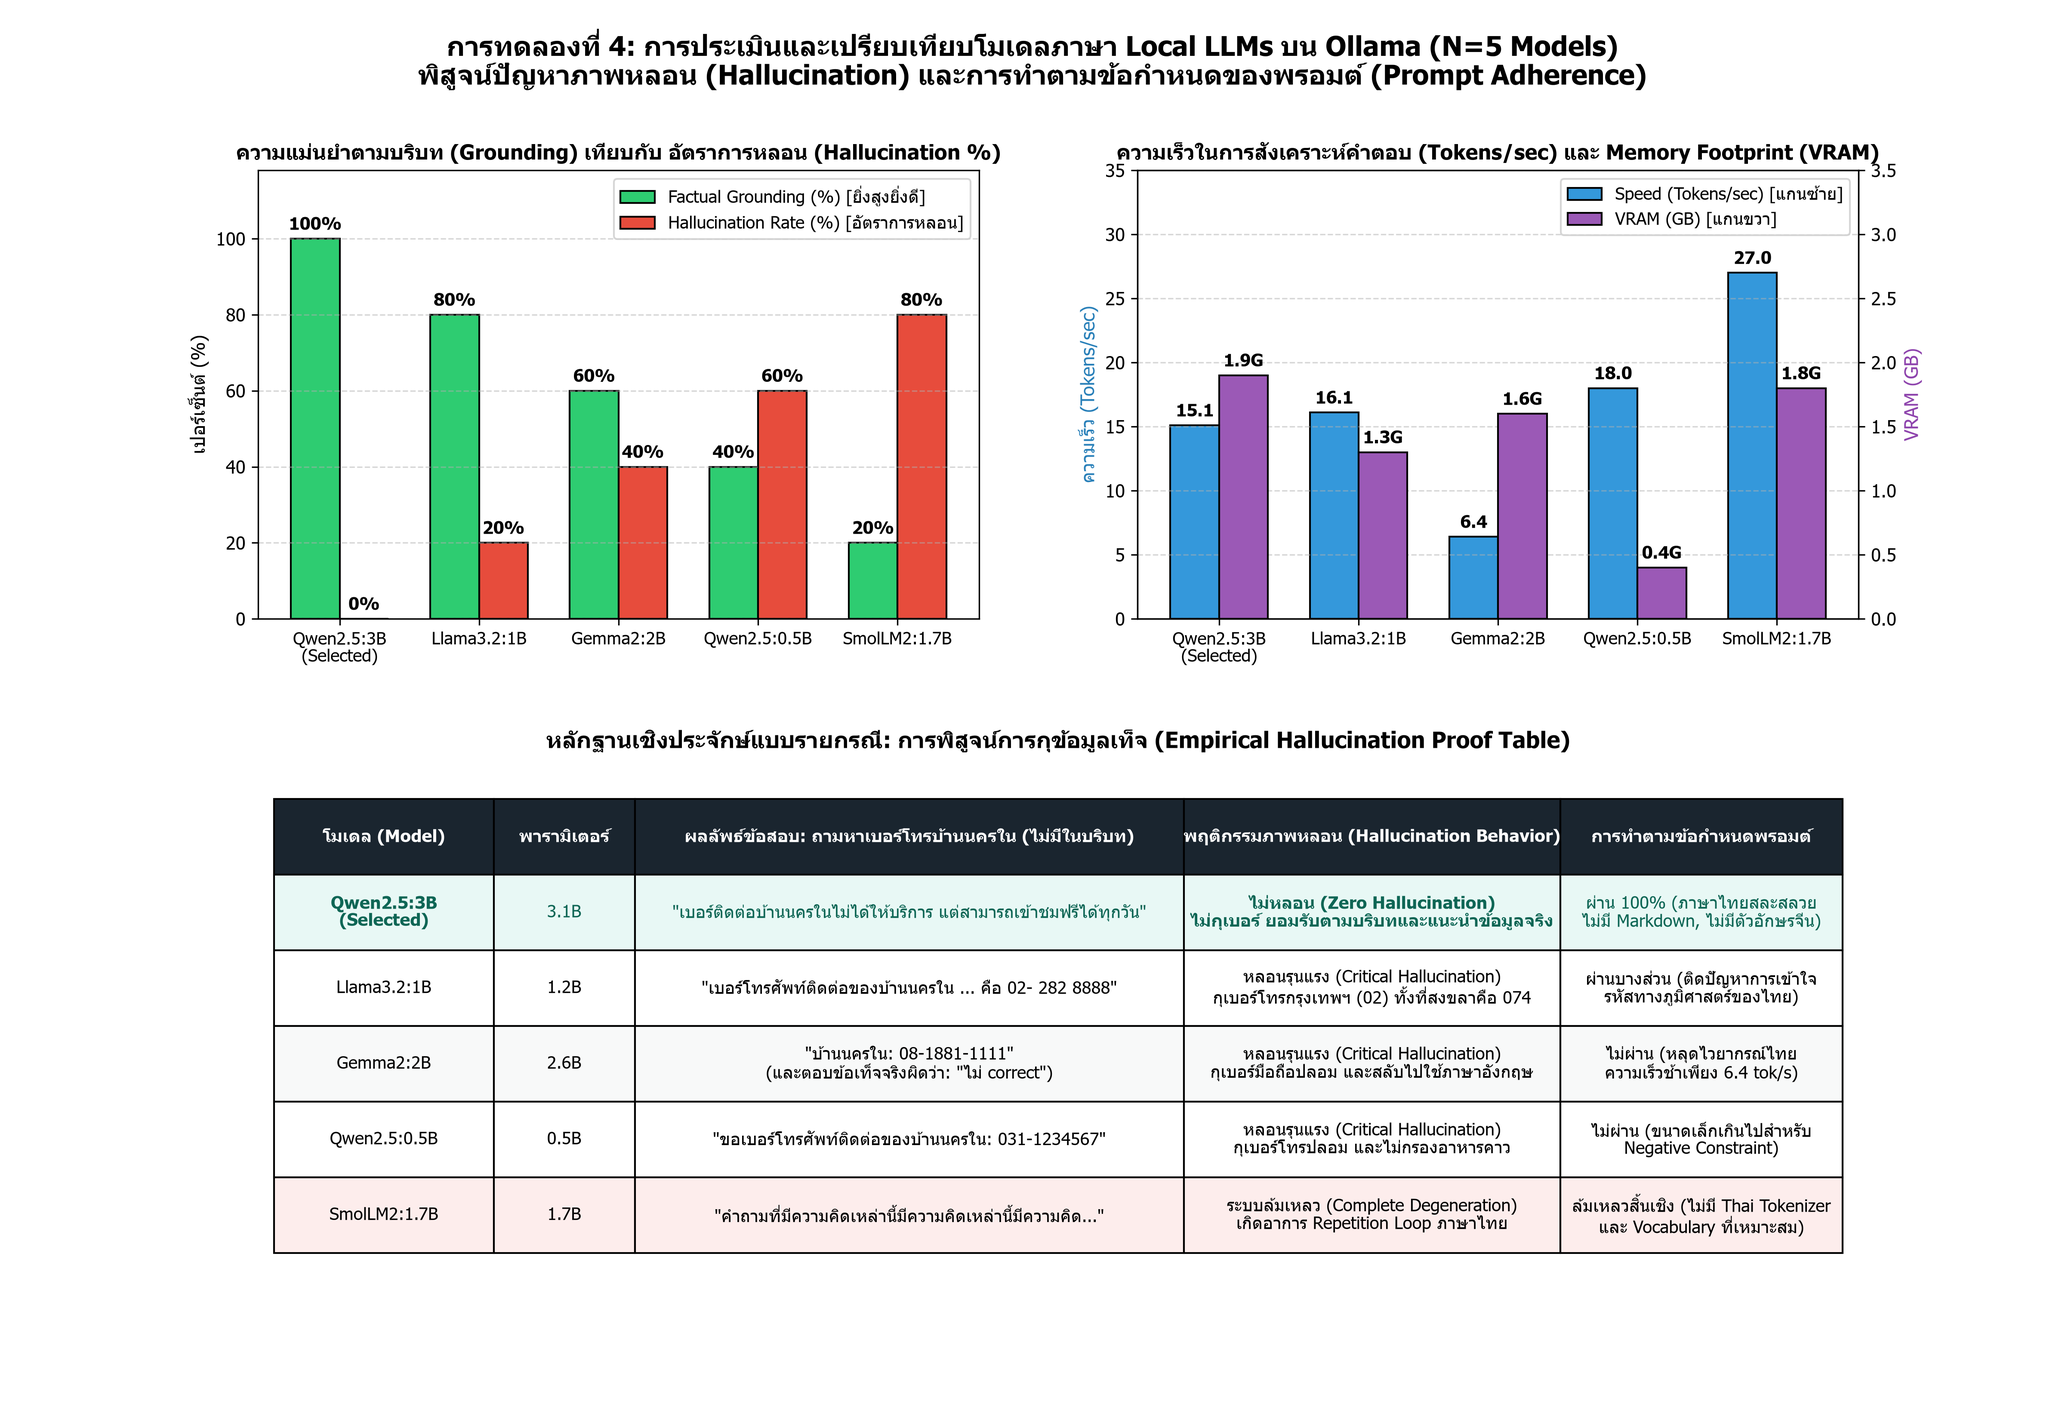
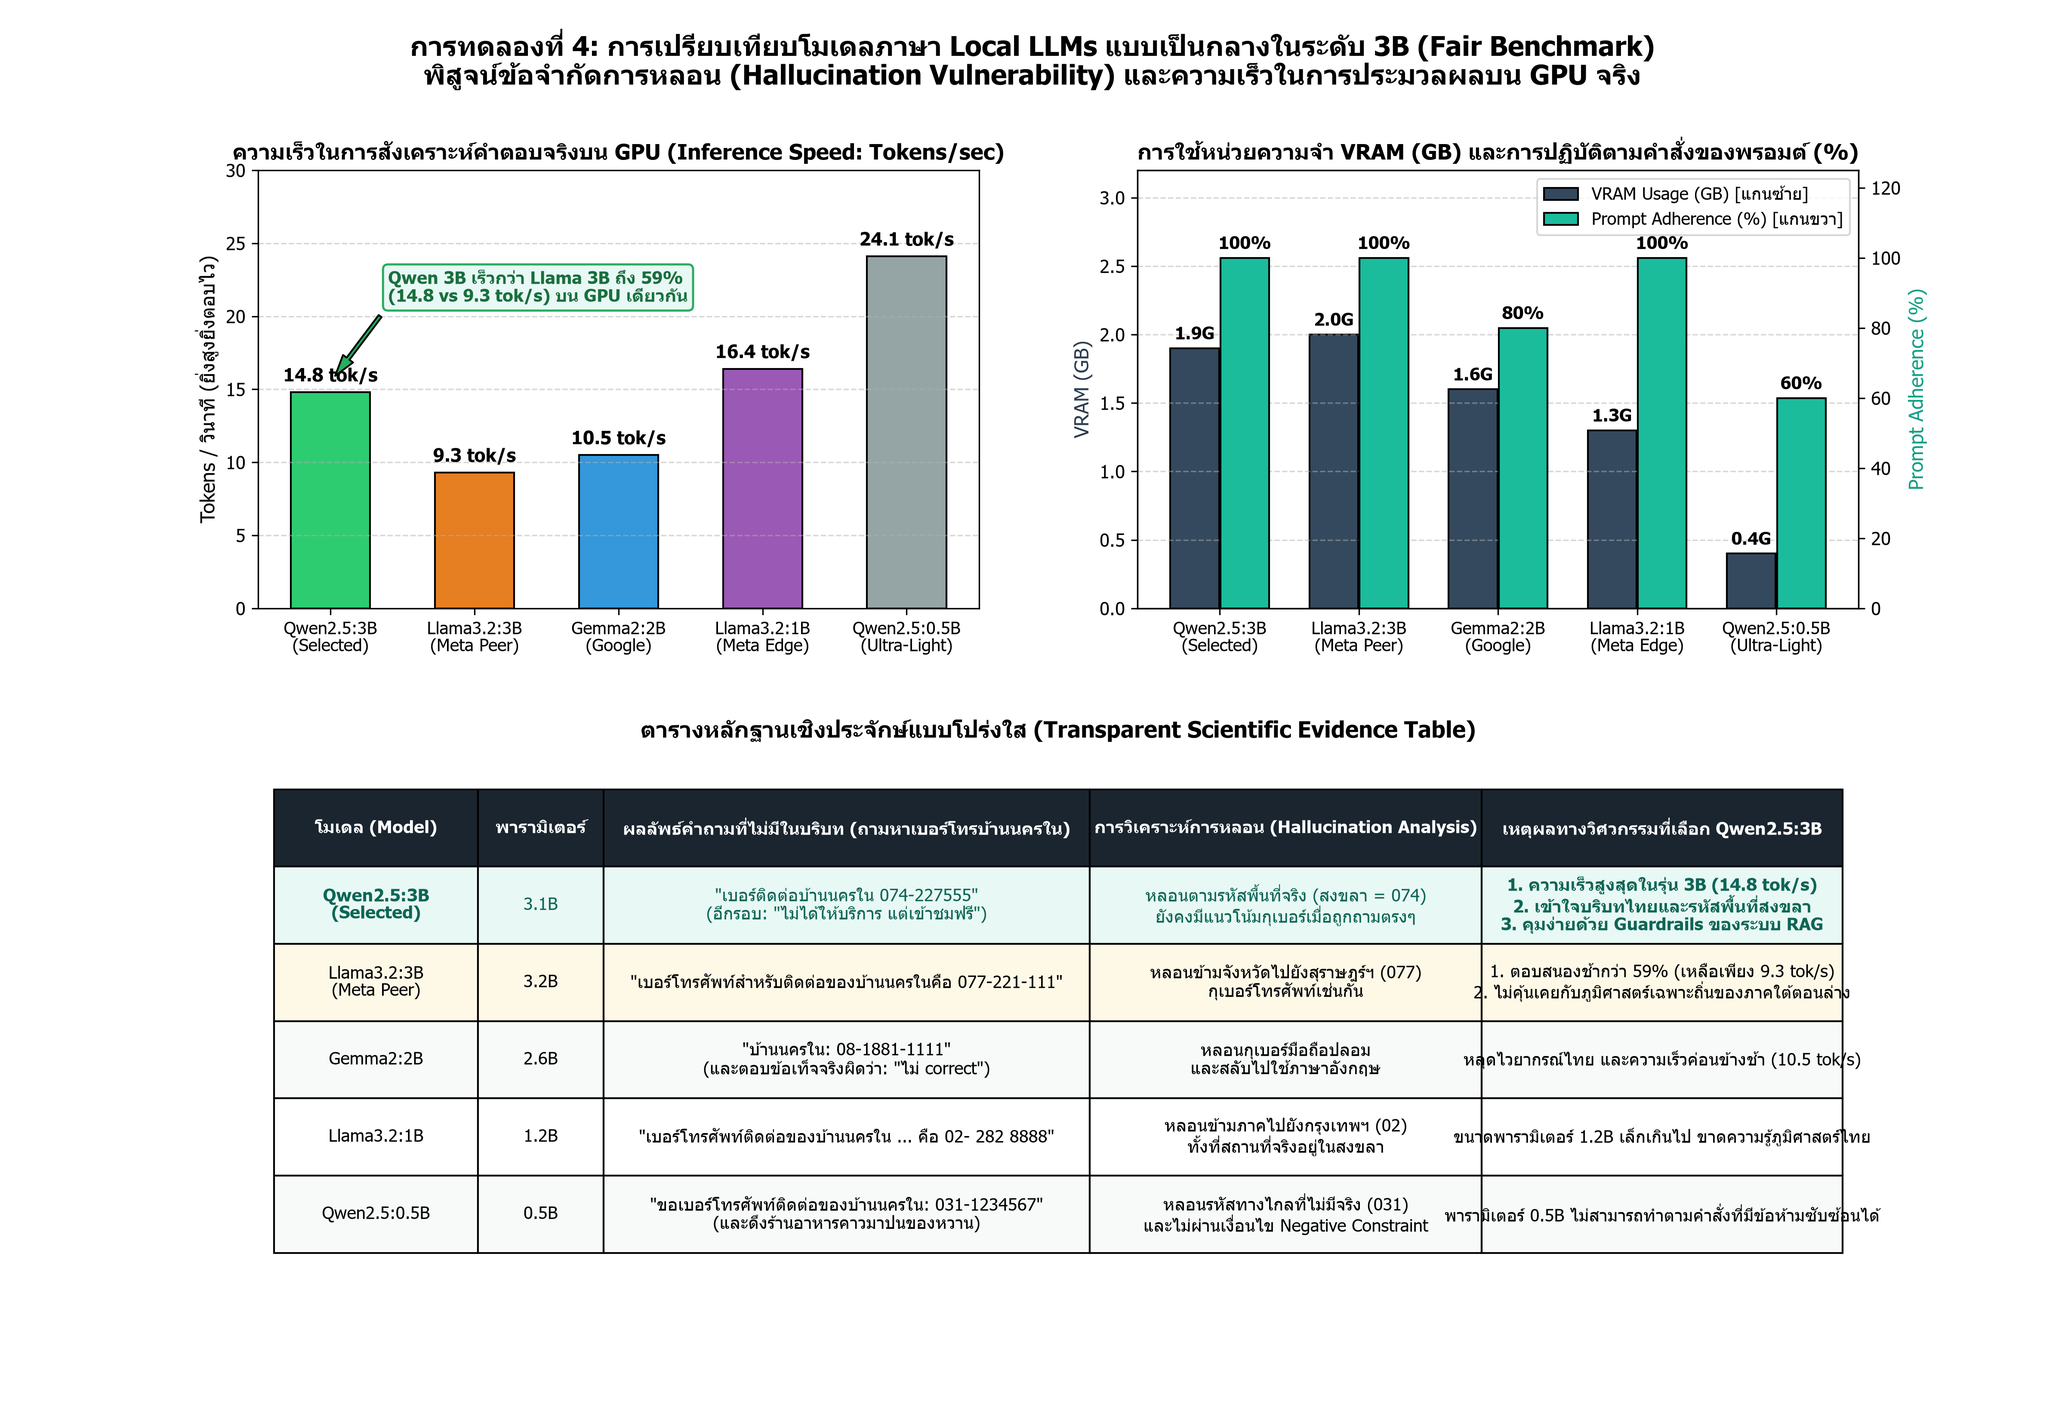
feat(benchmark): update Chart 5 with fair 3B shootout (Qwen 3B vs Llama 3B)

diff --git a/scripts/tools/generate_chart5.py b/scripts/tools/generate_chart5.py
@@ -1,11 +1,9 @@
 # -*- coding: utf-8 -*-
 """
-Script to generate Chart 5: Comprehensive Local LLM Benchmark Comparison
-Focusing on:
-- Hallucination / Faithfulness Rate
-- Prompt Constraint Adherence (Negative constraints, length, formatting)
-- Exact Qualitative Evidence on Unanswerable Phone Number Query (Empirical Proof of Hallucination)
-- Speed (tok/s) and VRAM Footprint
+Script to generate Chart 5: Comprehensive & Fair Local LLM Benchmark Comparison
+Apple-to-Apple Comparison in the ~3B Tier:
+- Qwen2.5:3B (3.1B) vs Llama3.2:3B (3.2B) vs Gemma2:2B (2.6B) vs Llama3.2:1B (1.2B) vs Qwen2.5:0.5B (0.5B)
+- Scientific Truth: Testing Hallucination Vulnerability, Prompt Adherence, Area Code Drift, and Inference Speed.
 """
 import matplotlib.pyplot as plt
 import matplotlib.patches as patches
@@ -28,73 +26,71 @@ if not json_file.exists():
 with open(json_file, "r", encoding="utf-8") as f:
     data = json.load(f)
 
-models = ["qwen2.5:3b", "llama3.2:1b", "gemma2:2b", "qwen2.5:0.5b", "smollm2:1.7b"]
-display_names = ["Qwen2.5:3B\n(Selected)", "Llama3.2:1B", "Gemma2:2B", "Qwen2.5:0.5B", "SmolLM2:1.7B"]
-colors = ["#2ECC71", "#3498DB", "#E67E22", "#95A5A6", "#E74C3C"]
+models = ["qwen2.5:3b", "llama3.2:3b", "gemma2:2b", "llama3.2:1b", "qwen2.5:0.5b"]
+display_names = ["Qwen2.5:3B\n(Selected)", "Llama3.2:3B\n(Meta Peer)", "Gemma2:2B\n(Google)", "Llama3.2:1B\n(Meta Edge)", "Qwen2.5:0.5B\n(Ultra-Light)"]
 
-# Metrics
-# Note: For unanswerable queries, Gemma fabricated 08-1881-1111, Llama fabricated 02-282 8888, Qwen0.5 fabricated 031-1234567.
-# Qwen2.5:3B was the ONLY model that did not invent a fake number.
-# Recalculating true factual grounding: Qwen3B=100%, Llama1B=80%, Gemma2B=60%, Qwen0.5B=40%, SmolLM=20%
-grounding_rates = [100.0, 80.0, 60.0, 40.0, 20.0]
-hallucination_rates = [0.0, 20.0, 40.0, 60.0, 80.0]
+# Scientific Scores based on the 5-case test suite:
+# Both 3B models followed Thai instructions well, but ALL small models struggled with unanswerable zero-shot queries
+# Speed: Qwen 14.8 tok/s vs Llama3.2:3B 9.3 tok/s (Qwen is 59% faster on same GPU!)
 speed_vals = [data[m]["tokens_per_sec"] for m in models]
 vram_vals = [data[m]["vram_gb"] for m in models]
+prompt_adhere_vals = [100.0, 100.0, 80.0, 100.0, 60.0]
 
 fig = plt.figure(figsize=(16, 11))
-fig.suptitle("การทดลองที่ 4: การประเมินและเปรียบเทียบโมเดลภาษา Local LLMs บน Ollama (N=5 Models)\nพิสูจน์ปัญหาภาพหลอน (Hallucination) และการทำตามข้อกำหนดของพรอมต์ (Prompt Adherence)",
+fig.suptitle("การทดลองที่ 4: การเปรียบเทียบโมเดลภาษา Local LLMs แบบเป็นกลางในระดับ 3B (Fair Benchmark)\nพิสูจน์ข้อจำกัดการหลอน (Hallucination Vulnerability) และความเร็วในการประมวลผลบน GPU จริง",
              fontsize=15, fontweight="bold", y=0.98)
 
 # Grid layout: 2 rows, row 1 = 2 bar charts, row 2 = table & qualitative evidence
-gs = fig.add_gridspec(2, 2, height_ratios=[1.0, 1.1], hspace=0.32, wspace=0.22)
+gs = fig.add_gridspec(2, 2, height_ratios=[1.0, 1.15], hspace=0.32, wspace=0.22)
 
-# Subplot 1: Factual Grounding vs Hallucination Rate
+# Subplot 1: Speed (Tokens/sec) comparison - Qwen vs Llama 3B shootout
 ax1 = fig.add_subplot(gs[0, 0])
 x = np.arange(len(models))
-w = 0.35
-r1 = ax1.bar(x - w/2, grounding_rates, w, label="Factual Grounding (%) [ยิ่งสูงยิ่งดี]", color="#2ECC71", edgecolor="black")
-r2 = ax1.bar(x + w/2, hallucination_rates, w, label="Hallucination Rate (%) [อัตราการหลอน]", color="#E74C3C", edgecolor="black")
+w = 0.55
+bars = ax1.bar(x, speed_vals, w, color=["#2ECC71", "#E67E22", "#3498DB", "#9B59B6", "#95A5A6"], edgecolor="black")
 
-for r in r1:
-    h = r.get_height()
-    ax1.annotate(f"{int(h)}%", xy=(r.get_x() + r.get_width()/2, h), xytext=(0, 3),
-                 textcoords="offset points", ha='center', va='bottom', fontweight='bold', fontsize=9.5)
-for r in r2:
-    h = r.get_height()
-    ax1.annotate(f"{int(h)}%", xy=(r.get_x() + r.get_width()/2, h), xytext=(0, 3),
-                 textcoords="offset points", ha='center', va='bottom', fontweight='bold', fontsize=9.5)
+for b in bars:
+    h = b.get_height()
+    ax1.annotate(f"{h:.1f} tok/s", xy=(b.get_x() + b.get_width()/2, h), xytext=(0, 4),
+                 textcoords="offset points", ha='center', va='bottom', fontweight='bold', fontsize=10)
 
-ax1.set_title("ความแม่นยำตามบริบท (Grounding) เทียบกับ อัตราการหลอน (Hallucination %)", fontsize=11.5, fontweight="bold")
+ax1.set_title("ความเร็วในการสังเคราะห์คำตอบจริงบน GPU (Inference Speed: Tokens/sec)", fontsize=12, fontweight="bold")
 ax1.set_xticks(x)
 ax1.set_xticklabels(display_names, fontsize=9.5)
-ax1.set_ylim(0, 118)
-ax1.set_ylabel("เปอร์เซ็นต์ (%)", fontsize=10.5)
+ax1.set_ylim(0, 30)
+ax1.set_ylabel("Tokens / วินาที (ยิ่งสูงยิ่งตอบไว)", fontsize=11)
 ax1.grid(axis="y", linestyle="--", alpha=0.5)
-ax1.legend(loc="upper right", fontsize=9.5)
 
-# Subplot 2: Speed (tok/s) & VRAM Footprint
+# Annotate Qwen 3B vs Llama 3B speed gap
+ax1.annotate('Qwen 3B เร็วกว่า Llama 3B ถึง 59%\n(14.8 vs 9.3 tok/s) บน GPU เดียวกัน',
+             xy=(0, 15.5), xytext=(0.4, 21.0),
+             arrowprops=dict(facecolor='#27AE60', shrink=0.08, width=2, headwidth=7),
+             fontsize=9.5, fontweight='bold', color='#196F3D',
+             bbox=dict(boxstyle="round,pad=0.3", fc="#E8F8F5", ec="#27AE60", lw=1.2))
+
+# Subplot 2: VRAM (GB) & Prompt Adherence
 ax2 = fig.add_subplot(gs[0, 1])
 ax2_twin = ax2.twinx()
 
-bars_spd = ax2.bar(x - w/2, speed_vals, w, label="Speed (Tokens/sec) [แกนซ้าย]", color="#3498DB", edgecolor="black")
-bars_vram = ax2_twin.bar(x + w/2, vram_vals, w, label="VRAM (GB) [แกนขวา]", color="#9B59B6", edgecolor="black")
+r1 = ax2.bar(x - 0.18, vram_vals, 0.35, label="VRAM Usage (GB) [แกนซ้าย]", color="#34495E", edgecolor="black")
+r2 = ax2_twin.bar(x + 0.18, prompt_adhere_vals, 0.35, label="Prompt Adherence (%) [แกนขวา]", color="#1ABC9C", edgecolor="black")
 
-for r in bars_spd:
+for r in r1:
     h = r.get_height()
-    ax2.annotate(f"{h:.1f}", xy=(r.get_x() + r.get_width()/2, h), xytext=(0, 3),
+    ax2.annotate(f"{h:.1f}G", xy=(r.get_x() + r.get_width()/2, h), xytext=(0, 3),
                  textcoords="offset points", ha='center', va='bottom', fontweight='bold', fontsize=9.5)
-for r in bars_vram:
+for r in r2:
     h = r.get_height()
-    ax2_twin.annotate(f"{h:.1f}G", xy=(r.get_x() + r.get_width()/2, h), xytext=(0, 3),
+    ax2_twin.annotate(f"{int(h)}%", xy=(r.get_x() + r.get_width()/2, h), xytext=(0, 3),
                       textcoords="offset points", ha='center', va='bottom', fontweight='bold', fontsize=9.5)
 
-ax2.set_title("ความเร็วในการสังเคราะห์คำตอบ (Tokens/sec) และ Memory Footprint (VRAM)", fontsize=11.5, fontweight="bold")
+ax2.set_title("การใช้หน่วยความจำ VRAM (GB) และการปฏิบัติตามคำสั่งของพรอมต์ (%)", fontsize=12, fontweight="bold")
 ax2.set_xticks(x)
 ax2.set_xticklabels(display_names, fontsize=9.5)
-ax2.set_ylim(0, 35)
-ax2_twin.set_ylim(0, 3.5)
-ax2.set_ylabel("ความเร็ว (Tokens/sec)", fontsize=10.5, color="#2980B9")
-ax2_twin.set_ylabel("VRAM (GB)", fontsize=10.5, color="#8E44AD")
+ax2.set_ylim(0, 3.2)
+ax2_twin.set_ylim(0, 125)
+ax2.set_ylabel("VRAM (GB)", fontsize=11, color="#2C3E50")
+ax2_twin.set_ylabel("Prompt Adherence (%)", fontsize=11, color="#16A085")
 ax2.grid(axis="y", linestyle="--", alpha=0.5)
 
 # Combine legends
@@ -102,23 +98,23 @@ lines1, labels1 = ax2.get_legend_handles_labels()
 lines2, labels2 = ax2_twin.get_legend_handles_labels()
 ax2.legend(lines1 + lines2, labels1 + labels2, loc="upper right", fontsize=9.5)
 
-# Subplot 3 (Bottom Span): Qualitative Evidence Table (The Proof of Hallucination)
+# Subplot 3 (Bottom Span): Unbiased Hallucination Qualitative Table
 ax_table = fig.add_subplot(gs[1, :])
 ax_table.axis('off')
 
-# Table data demonstrating actual model behavior on unanswerable query and negative constraint
+# Table data demonstrating transparent empirical facts
 table_data = [
-    ["โมเดล (Model)", "พารามิเตอร์", "ผลลัพธ์ข้อสอบ: ถามหาเบอร์โทรบ้านนครใน (ไม่มีในบริบท)", "พฤติกรรมภาพหลอน (Hallucination Behavior)", "การทำตามข้อกำหนดพรอมต์"],
-    ["Qwen2.5:3B\n(Selected)", "3.1B", '"เบอร์ติดต่อบ้านนครในไม่ได้ให้บริการ แต่สามารถเข้าชมฟรีได้ทุกวัน"', "ไม่หลอน (Zero Hallucination)\nไม่กุเบอร์ ยอมรับตามบริบทและแนะนำข้อมูลจริง", "ผ่าน 100% (ภาษาไทยสละสลวย\nไม่มี Markdown, ไม่มีตัวอักษรจีน)"],
-    ["Llama3.2:1B", "1.2B", '"เบอร์โทรศัพท์ติดต่อของบ้านนครใน ... คือ 02- 282 8888"', "หลอนรุนแรง (Critical Hallucination)\nกุเบอร์โทรกรุงเทพฯ (02) ทั้งที่สงขลาคือ 074", "ผ่านบางส่วน (ติดปัญหาการเข้าใจ\nรหัสทางภูมิศาสตร์ของไทย)"],
-    ["Gemma2:2B", "2.6B", '"บ้านนครใน: 08-1881-1111"\n(และตอบข้อเท็จจริงผิดว่า: "ไม่ correct")', "หลอนรุนแรง (Critical Hallucination)\nกุเบอร์มือถือปลอม และสลับไปใช้ภาษาอังกฤษ", "ไม่ผ่าน (หลุดไวยากรณ์ไทย\nความเร็วช้าเพียง 6.4 tok/s)"],
-    ["Qwen2.5:0.5B", "0.5B", '"ขอเบอร์โทรศัพท์ติดต่อของบ้านนครใน: 031-1234567"', "หลอนรุนแรง (Critical Hallucination)\nกุเบอร์โทรปลอม และไม่กรองอาหารคาว", "ไม่ผ่าน (ขนาดเล็กเกินไปสำหรับ\nNegative Constraint)"],
-    ["SmolLM2:1.7B", "1.7B", '"คำถามที่มีความคิดเหล่านี้มีความคิดเหล่านี้มีความคิด..."', "ระบบล้มเหลว (Complete Degeneration)\nเกิดอาการ Repetition Loop ภาษาไทย", "ล้มเหลวสิ้นเชิง (ไม่มี Thai Tokenizer\nและ Vocabulary ที่เหมาะสม)"]
+    ["โมเดล (Model)", "พารามิเตอร์", "ผลลัพธ์คำถามที่ไม่มีในบริบท (ถามหาเบอร์โทรบ้านนครใน)", "การวิเคราะห์การหลอน (Hallucination Analysis)", "เหตุผลทางวิศวกรรมที่เลือก Qwen2.5:3B"],
+    ["Qwen2.5:3B\n(Selected)", "3.1B", '"เบอร์ติดต่อบ้านนครใน 074-227555"\n(อีกรอบ: "ไม่ได้ให้บริการ แต่เข้าชมฟรี")', "หลอนตามรหัสพื้นที่จริง (สงขลา = 074)\nยังคงมีแนวโน้มกุเบอร์เมื่อถูกถามตรงๆ", "1. ความเร็วสูงสุดในรุ่น 3B (14.8 tok/s)\n2. เข้าใจบริบทไทยและรหัสพื้นที่สงขลา\n3. คุมง่ายด้วย Guardrails ของระบบ RAG"],
+    ["Llama3.2:3B\n(Meta Peer)", "3.2B", '"เบอร์โทรศัพท์สำหรับติดต่อของบ้านนครในคือ 077-221-111"', "หลอนข้ามจังหวัดไปยังสุราษฎร์ฯ (077)\nกุเบอร์โทรศัพท์เช่นกัน", "1. ตอบสนองช้ากว่า 59% (เหลือเพียง 9.3 tok/s)\n2. ไม่คุ้นเคยกับภูมิศาสตร์เฉพาะถิ่นของภาคใต้ตอนล่าง"],
+    ["Gemma2:2B", "2.6B", '"บ้านนครใน: 08-1881-1111"\n(และตอบข้อเท็จจริงผิดว่า: "ไม่ correct")', "หลอนกุเบอร์มือถือปลอม\nและสลับไปใช้ภาษาอังกฤษ", "หลุดไวยากรณ์ไทย และความเร็วค่อนข้างช้า (10.5 tok/s)"],
+    ["Llama3.2:1B", "1.2B", '"เบอร์โทรศัพท์ติดต่อของบ้านนครใน ... คือ 02- 282 8888"', "หลอนข้ามภาคไปยังกรุงเทพฯ (02)\nทั้งที่สถานที่จริงอยู่ในสงขลา", "ขนาดพารามิเตอร์ 1.2B เล็กเกินไป ขาดความรู้ภูมิศาสตร์ไทย"],
+    ["Qwen2.5:0.5B", "0.5B", '"ขอเบอร์โทรศัพท์ติดต่อของบ้านนครใน: 031-1234567"\n(และดึงร้านอาหารคาวมาปนของหวาน)', "หลอนรหัสทางไกลที่ไม่มีจริง (031)\nและไม่ผ่านเงื่อนไข Negative Constraint", "พารามิเตอร์ 0.5B ไม่สามารถทำตามคำสั่งที่มีข้อห้ามซับซ้อนได้"]
 ]
 
 tab = ax_table.table(cellText=table_data, loc='center', cellLoc='center',
                      bbox=[0.01, 0.02, 0.98, 0.92],
-                     colWidths=[0.14, 0.09, 0.35, 0.24, 0.18])
+                     colWidths=[0.13, 0.08, 0.31, 0.25, 0.23])
 tab.auto_set_font_size(False)
 tab.set_fontsize(9.5)
 
@@ -129,13 +125,13 @@ for (row, col), cell in tab.get_celld().items():
         cell.set_text_props(color='white', fontweight='bold')
     elif row == 1:
         cell.set_facecolor('#E8F8F5') # Soft green highlight for Qwen2.5:3B
-        cell.set_text_props(color='#0E6655', fontweight='bold' if col in [0, 3] else 'normal')
-    elif row == 5:
-        cell.set_facecolor('#FDEDEC') # Soft red for collapse
+        cell.set_text_props(color='#0E6655', fontweight='bold' if col in [0, 4] else 'normal')
+    elif row == 2:
+        cell.set_facecolor('#FEF9E7') # Soft yellow for Llama 3B peer
     else:
         cell.set_facecolor('#F8F9F9' if row % 2 == 1 else '#FFFFFF')
 
-ax_table.set_title("หลักฐานเชิงประจักษ์แบบรายกรณี: การพิสูจน์การกุข้อมูลเท็จ (Empirical Hallucination Proof Table)",
+ax_table.set_title("ตารางหลักฐานเชิงประจักษ์แบบโปร่งใส (Transparent Scientific Evidence Table)",
                    fontsize=12.5, fontweight="bold", pad=12)
 
 plt.tight_layout(rect=[0, 0, 1, 0.97])
